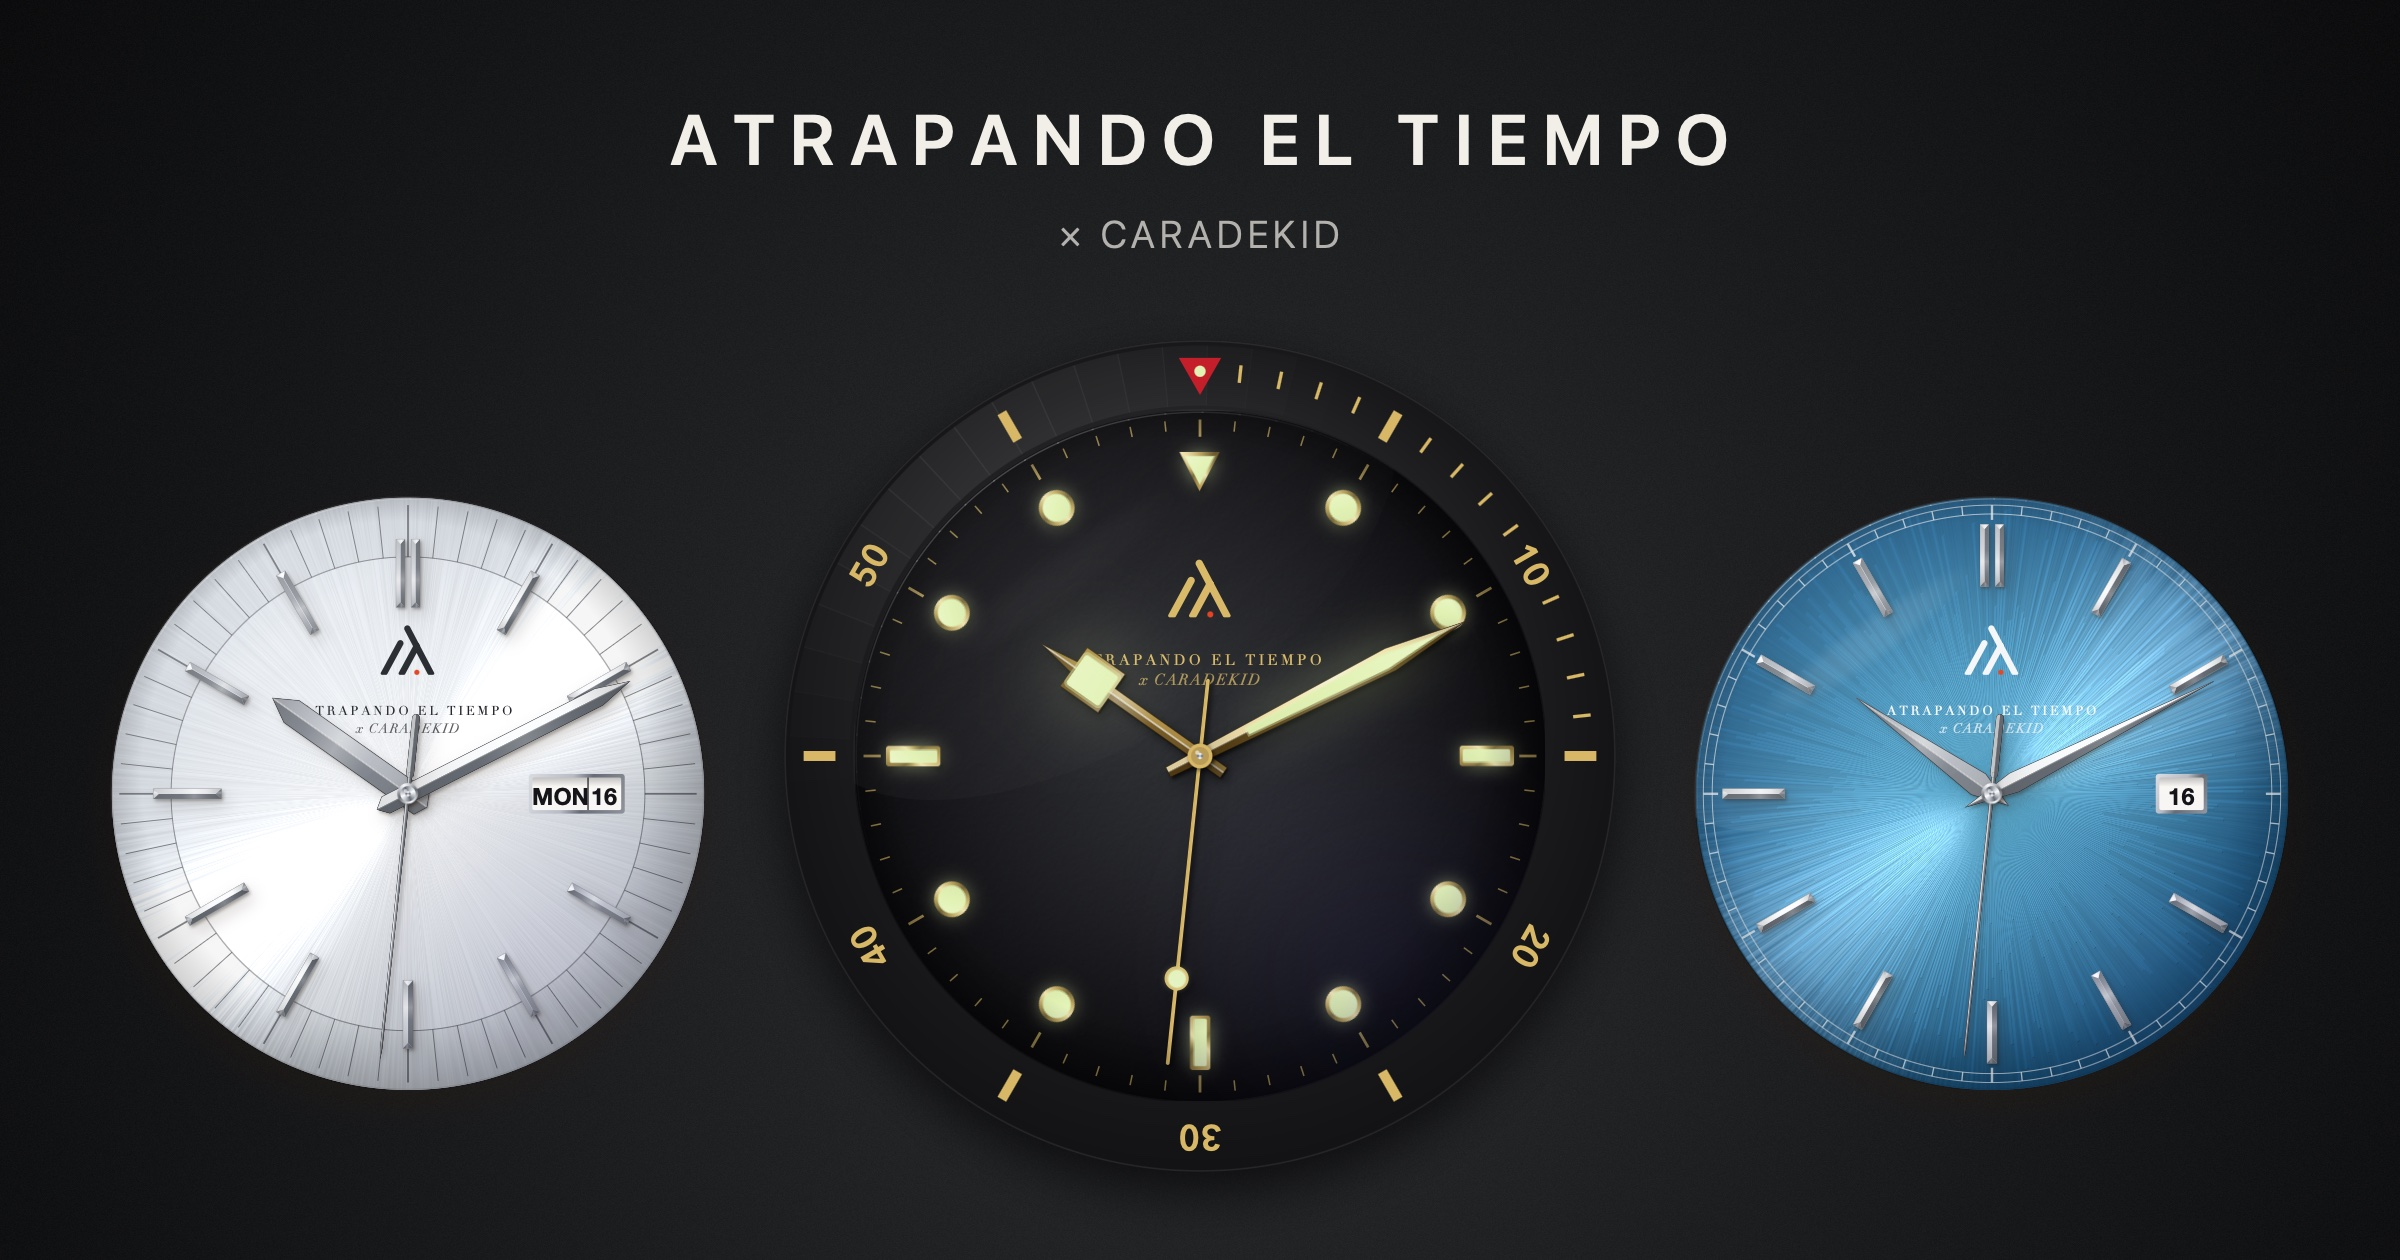
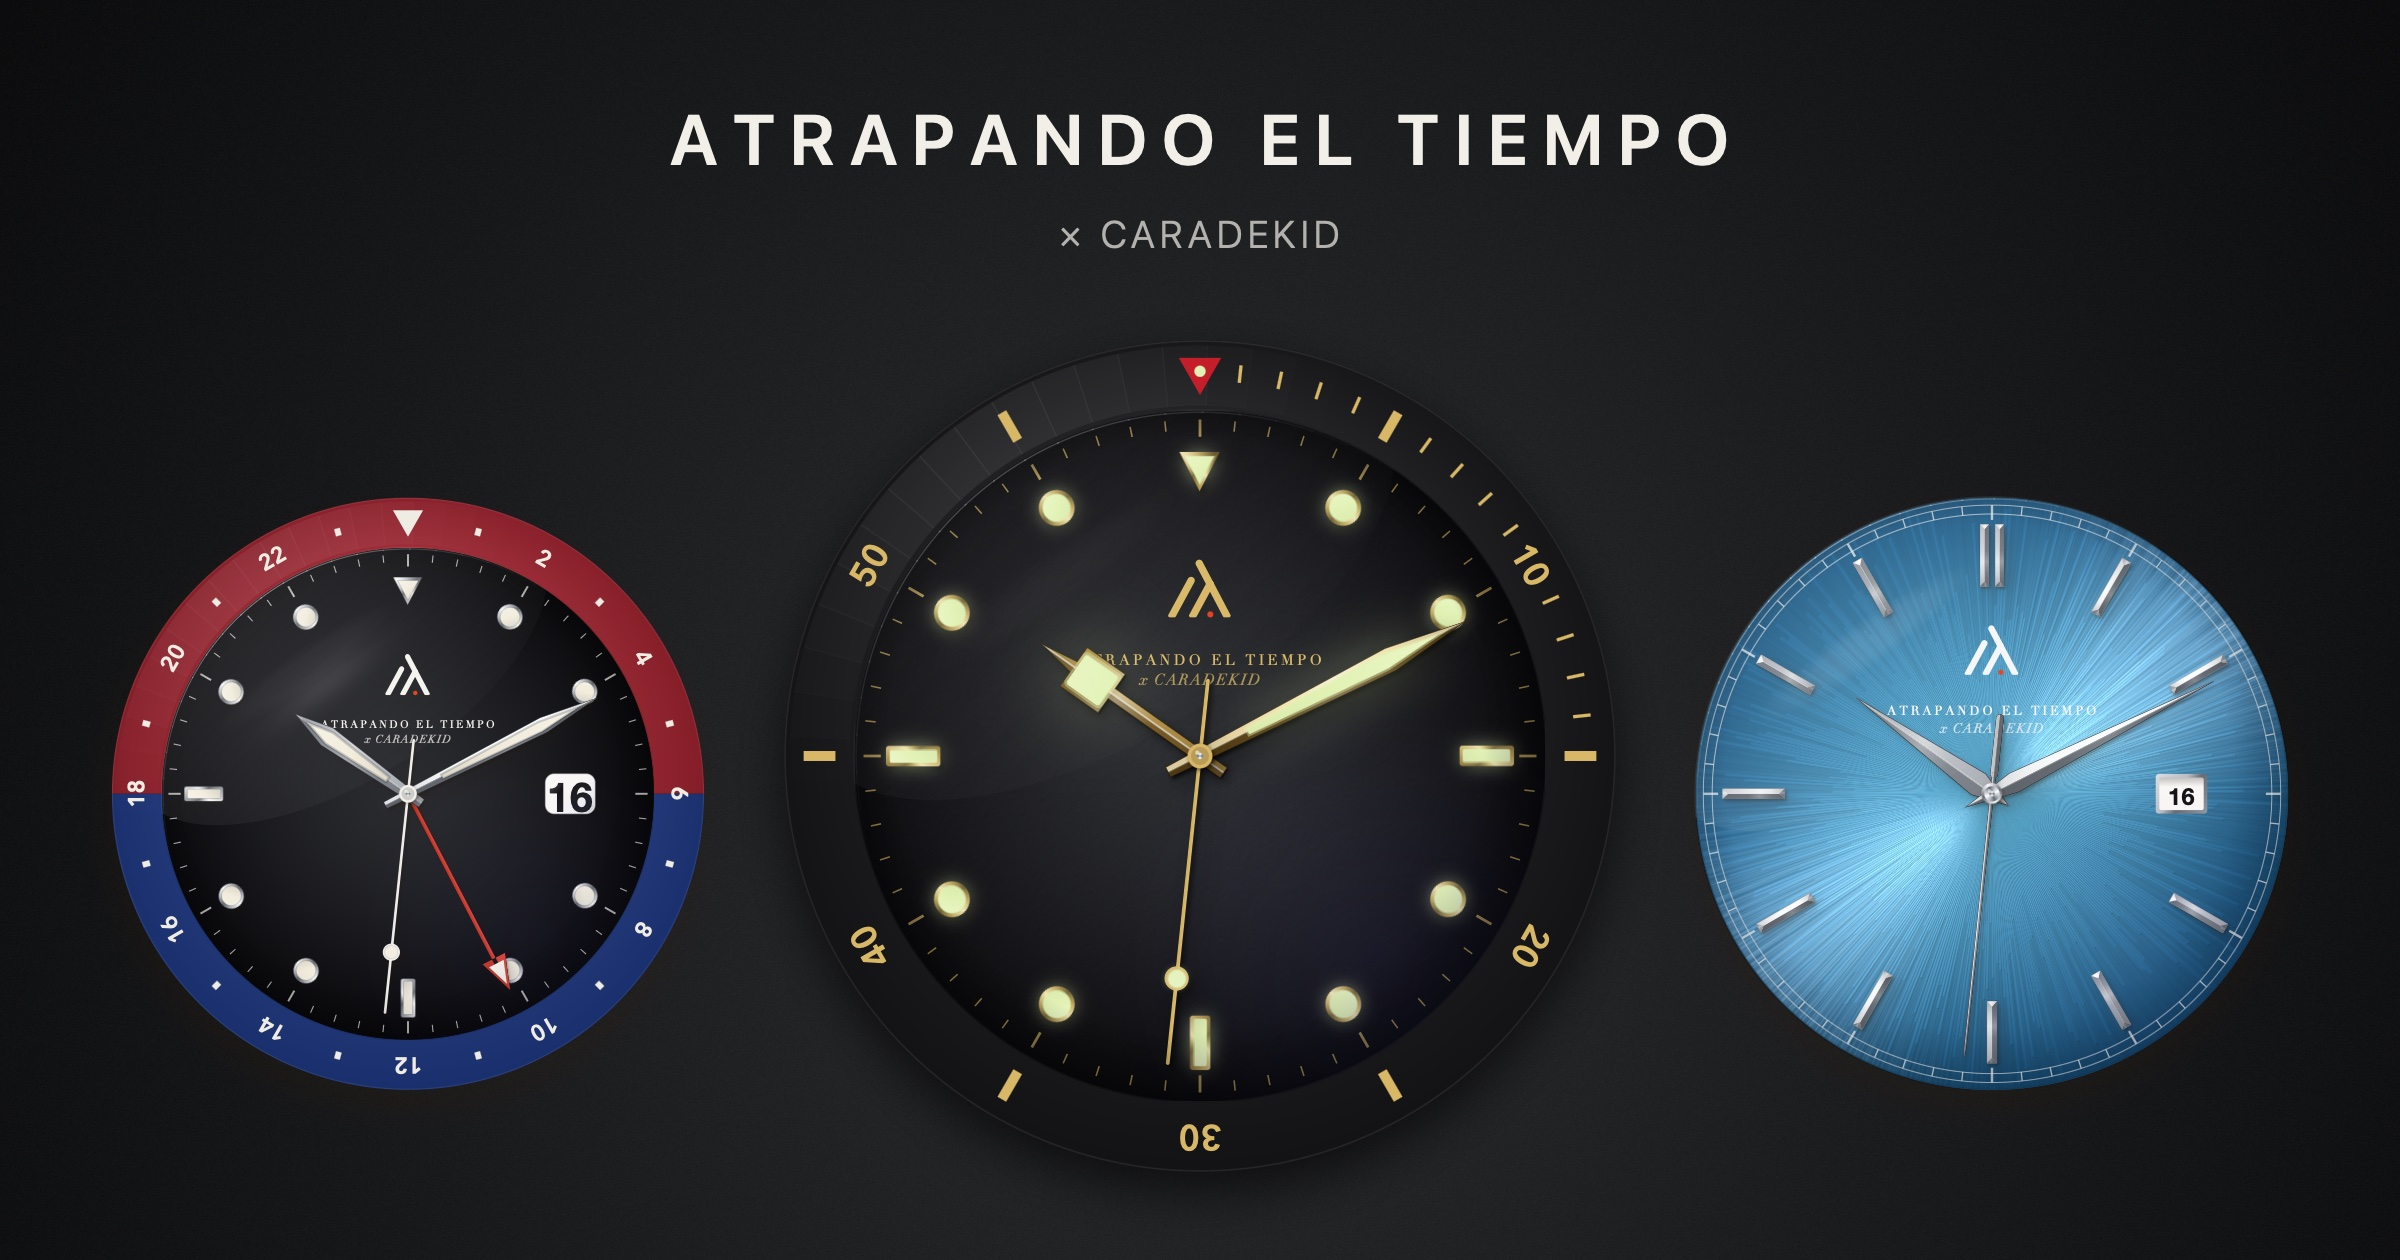
Hero: GMT as the first dial

Changed region(s): [[0.0312, 0.3714, 0.3125, 0.8667]]

diff --git a/docs/poster.html b/docs/poster.html
@@ -55,7 +55,7 @@
         label(ctx, 'ATRAPANDO EL TIEMPO', w / 2, h * 0.11, h * 0.056, '#f2efe8', DISPLAY, h * 0.012);
         label(ctx, '× CARADEKID', w / 2, h * 0.185, h * 0.03, 'rgba(242,239,232,0.7)', LIGHT, h * 0.004);
         const t = at(10, 10);
-        E.renderWatch(ctx, w * 0.17, h * 0.63, h * 0.235, cfgOf('seventies'), false, t);
+        E.renderWatch(ctx, w * 0.17, h * 0.63, h * 0.235, cfgOf('gmt'), false, t);
         E.renderWatch(ctx, w * 0.83, h * 0.63, h * 0.235, cfgOf('cocktail'), false, t);
         E.renderWatch(ctx, w * 0.5, h * 0.6, h * 0.33, cfgOf('giltDiver'), true, t);
         return png(c);
